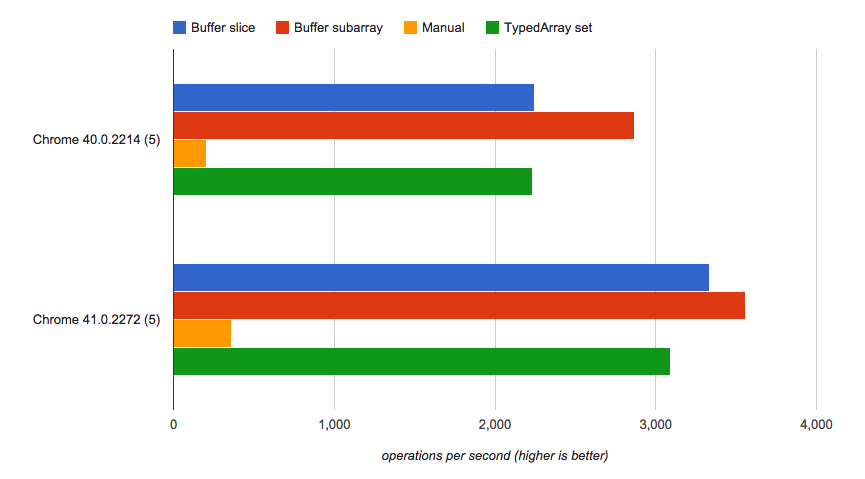
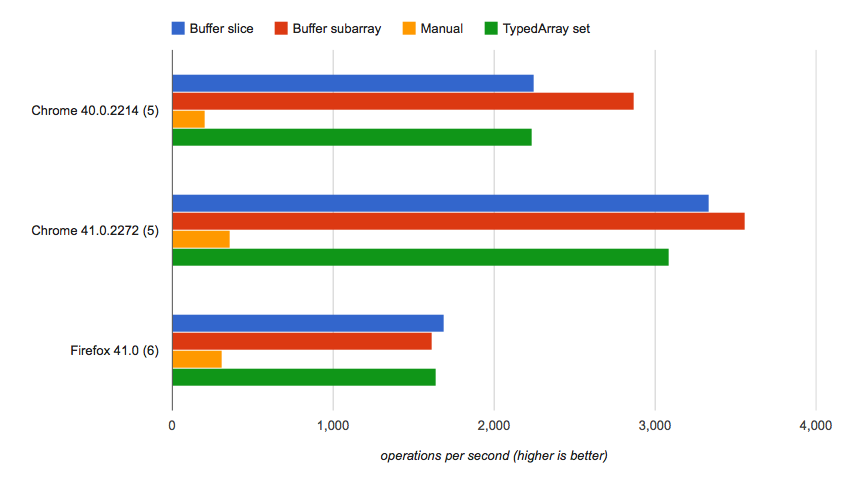
updates test and result image.

diff --git a/spikes/2.3.1/copyComparison.js b/spikes/2.3.1/copyComparison.js
@@ -1,4 +1,4 @@
-// http://jsperf.com/arraybuffer-copy/3
+// http://jsperf.com/arraybuffer-copy/4
 
 // HTML setup
 <script src="http://mrale.ph/irhydra/jsperf-renamer.js"></script>
